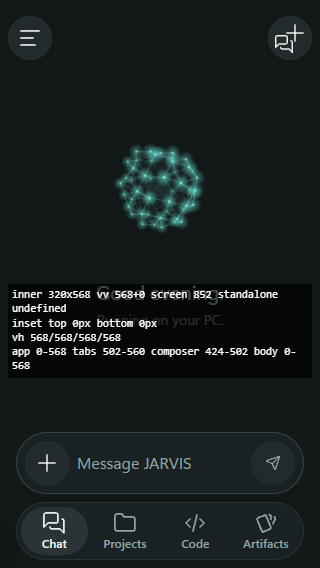
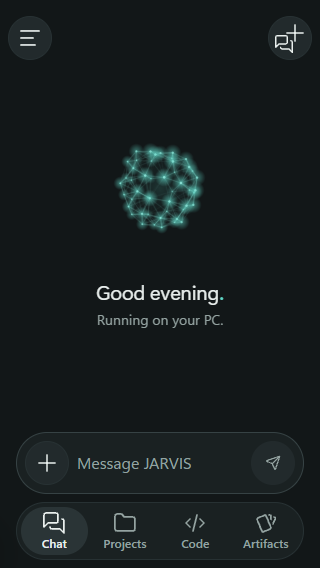
Revert "Phone: a home-screen app fills the full screen height (iOS reports the page one status-bar inset short)"
This reverts commit eee0a001bdc703a3139053ddd836a66164353687.

Changed region(s): [[0.0312, 0.4789, 0.9062, 0.6585]]

diff --git a/src/mobile/main.js b/src/mobile/main.js
@@ -37,13 +37,7 @@ function fit() {
   // Only with the keyboard up does the app follow the visual viewport. Closed, the CSS default (the full dynamic viewport) is used:
   // in a home-screen app iOS can report a visual viewport shorter than the screen, which left an empty strip at the bottom.
   if (open) { root.style.setProperty('--vvh', `${Math.round(h)}px`); root.style.setProperty('--vvt', `${Math.round(top)}px`); }
-  else {
-    // A home-screen app on iOS reports a page one status-bar inset shorter than the screen (793 of 852 pt on an iPhone 15 Pro); the app fills the whole screen.
-    const full = Math.max(screen.width, screen.height);
-    if (navigator.standalone && innerHeight > innerWidth && innerHeight < full) root.style.setProperty('--vvh', `${full}px`);
-    else root.style.removeProperty('--vvh');
-    root.style.removeProperty('--vvt');
-  }
+  else { root.style.removeProperty('--vvh'); root.style.removeProperty('--vvt'); }
   if ((app.dataset.kb === 'open') !== open) { app.dataset.kb = open ? 'open' : 'closed'; if (open) chat.afterSend(); }
 }
 fit();
@@ -293,7 +287,6 @@ refreshSend();
   probe.style.cssText = 'position:fixed;visibility:hidden;padding:env(safe-area-inset-top) 0 env(safe-area-inset-bottom) 0';
   document.body.append(dbg, probe);
   const r = (s) => { const n = document.querySelector(s); if (!n) return 'none'; const b = n.getBoundingClientRect(); return `${Math.round(b.top)}-${Math.round(b.bottom)}`; };
-  const show = () => { const c = getComputedStyle(probe); dbg.textContent = `inner ${innerWidth}x${innerHeight} vv ${vv ? Math.round(vv.height) : '-'}+${vv ? Math.round(vv.offsetTop) : '-'} screen ${screen.height} standalone ${navigator.standalone}\ninset top ${c.paddingTop} bottom ${c.paddingBottom}\nvh ${[100,'100lvh','100svh','100dvh'].map((u)=>{probe.style.height=typeof u==='number'?'100vh':u;return Math.round(probe.getBoundingClientRect().height);}).join('/')}
-app ${r('#m-app')} tabs ${r('.m-tabs')} composer ${r('#m-composer')} body ${r('body')}`; };
+  const show = () => { const c = getComputedStyle(probe); dbg.textContent = `inner ${innerWidth}x${innerHeight} vv ${vv ? Math.round(vv.height) : '-'}+${vv ? Math.round(vv.offsetTop) : '-'} screen ${screen.height} standalone ${navigator.standalone}\ninset top ${c.paddingTop} bottom ${c.paddingBottom}\napp ${r('#m-app')} tabs ${r('.m-tabs')} composer ${r('#m-composer')} body ${r('body')}`; };
   show(); setInterval(show, 1000);
 }
